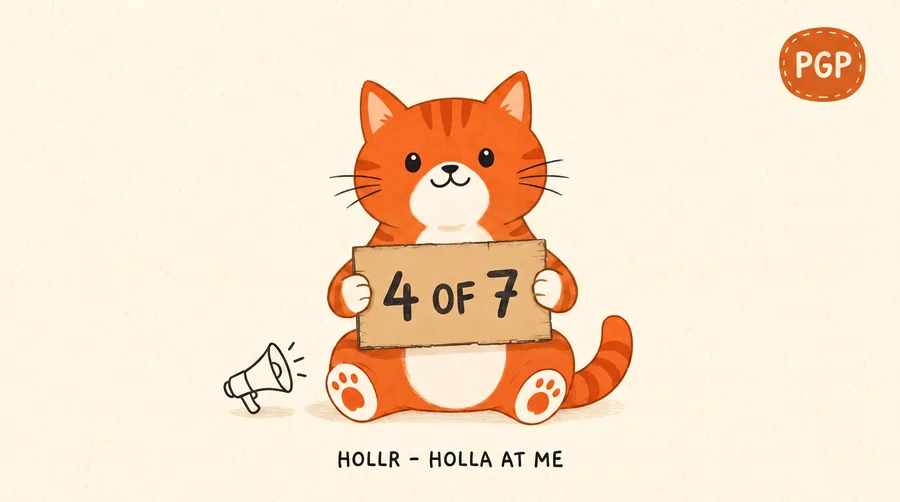
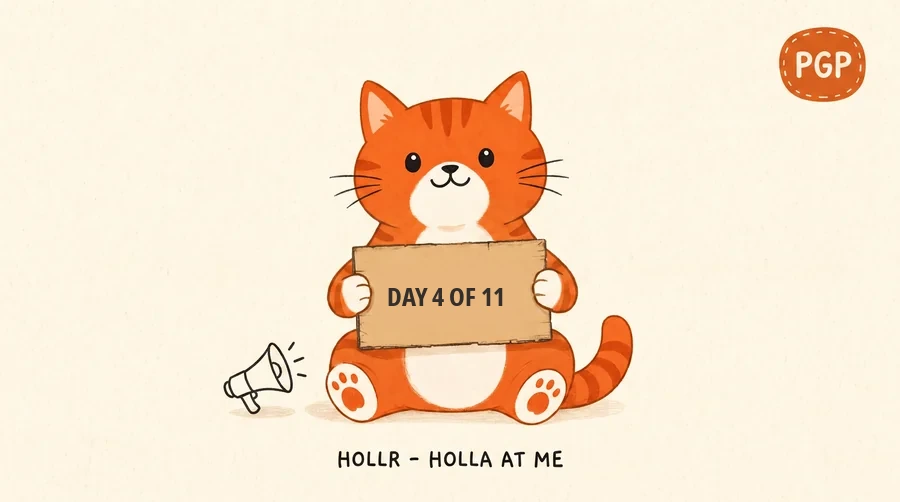
Rebrand kitty card art: Day n of 11

Changed region(s): [[0.4044, 0.5378, 0.5911, 0.6574]]

diff --git a/tools/marathon/rebrand_kitties.py b/tools/marathon/rebrand_kitties.py
@@ -1,0 +1,38 @@
+"""Rebrand only: replace 'N of 7' / Encore / Bonus sign lettering with 'DAY n OF 11'. Run from assets/kitties on the ORIGINALS in kit-before."""
+import cv2,numpy as np,sys
+from PIL import Image,ImageDraw,ImageFont
+SRC='/home/user/workspace/kit-before/'
+F='/usr/share/fonts/truetype/noto/NotoSansDisplay-CondensedBold.ttf'
+# file: (day, text box x0,y0,x1,y1, tilt degrees)
+J={'2-ase.webp':(2,(398,274,508,322),0),'3-mang.webp':(3,(394,278,510,326),0),'4-hollr.webp':(4,(382,274,510,320),0),
+'5-clippy.webp':(5,(332,290,545,348),-4),'6-mercury.webp':(6,(406,250,495,288),0),'7-megamesh.webp':(7,(312,232,500,292),-5),
+'ai-credit-checker.webp':(8,(585,412,820,495),2),'xnftables-bonus.webp':(9,(585,412,820,495),2),'timescreen.webp':(10,(585,412,820,495),2),'mars-goodie.webp':(11,(585,412,820,495),2)}
+for f,(day,b,tilt) in J.items():
+    im=Image.open(SRC+f).convert('RGB'); a=np.array(im); tx0,ty0,tx1,ty1=b; PAD={'4-hollr.webp':(8,12),'7-megamesh.webp':(18,3),'3-mang.webp':(8,4),'2-ase.webp':(6,4),'6-mercury.webp':(6,2)}.get(f,(0,0)); x0,y0,x1,y1=tx0-PAD[0],ty0-PAD[1]-(10 if f=='7-megamesh.webp' else 0),tx1+PAD[0]+(6 if f=='4-hollr.webp' else 0),ty1+PAD[1]
+    sub=a[y0:y1,x0:x1].astype(int); lum=sub.mean(2)
+    card=(lum>=130)&(abs(sub[...,0]-sub[...,2])>35)&(sub[...,0]<235)&(sub[...,1]>100)
+    col=np.median(sub[card],axis=0) if card.sum()>30 else np.array([200,150,100])
+    clean=a.copy(); r=np.ones((y1-y0,x1-x0),np.float32)
+    r=cv2.GaussianBlur(np.pad(r[2:-2,2:-2],2),(0,0),2)[...,None]
+    clean[y0:y1,x0:x1]=(sub*(1-r)+col*r).astype(np.uint8)
+    im=Image.fromarray(clean)
+    w,h=tx1-tx0,ty1-ty0; txt=f'DAY {day} OF 11'
+    sz=int(h*0.9)
+    while True:
+        fo=ImageFont.truetype(F,sz); bb=fo.getbbox(txt)
+        if bb[2]-bb[0]<=w*0.96 and bb[3]-bb[1]<=h*0.62: break
+        sz-=1
+    lay=Image.new('RGBA',(w*3,h*3),(0,0,0,0)); d=ImageDraw.Draw(lay)
+    bb=fo.getbbox(txt); d.text((w*1.5-(bb[0]+bb[2])/2,h*1.5-(bb[1]+bb[3])/2),txt,font=fo,fill=(52,46,42,255))
+    lay=lay.rotate(-tilt,resample=Image.BICUBIC)
+    lay=lay.crop((w,h,2*w,2*h)); im.paste(lay,(tx0,ty0),lay)
+    out=f; im.save(out,quality=92) if f.endswith('webp') else im.save(out)
+    print(f,sz)
+# junk footer
+im=Image.open(SRC+'junk-canonical-20261006.png').convert('RGB'); a=np.array(im)
+x0,y0,x1,y1=44,458,300,480
+bg=tuple(int(v) for v in np.median(a[y0:y1,x0:x1].reshape(-1,3),axis=0))
+d=ImageDraw.Draw(im); d.rectangle((x0,y0,x1,y1),fill=bg)
+fo=ImageFont.truetype('/usr/share/fonts/truetype/dejavu/DejaVuSansMono.ttf',12)
+d.text((49,462),'THE MARATHON · DAY 1 / 11',font=fo,fill=(150,108,66))
+im.save('junk-canonical-20261006.png')
